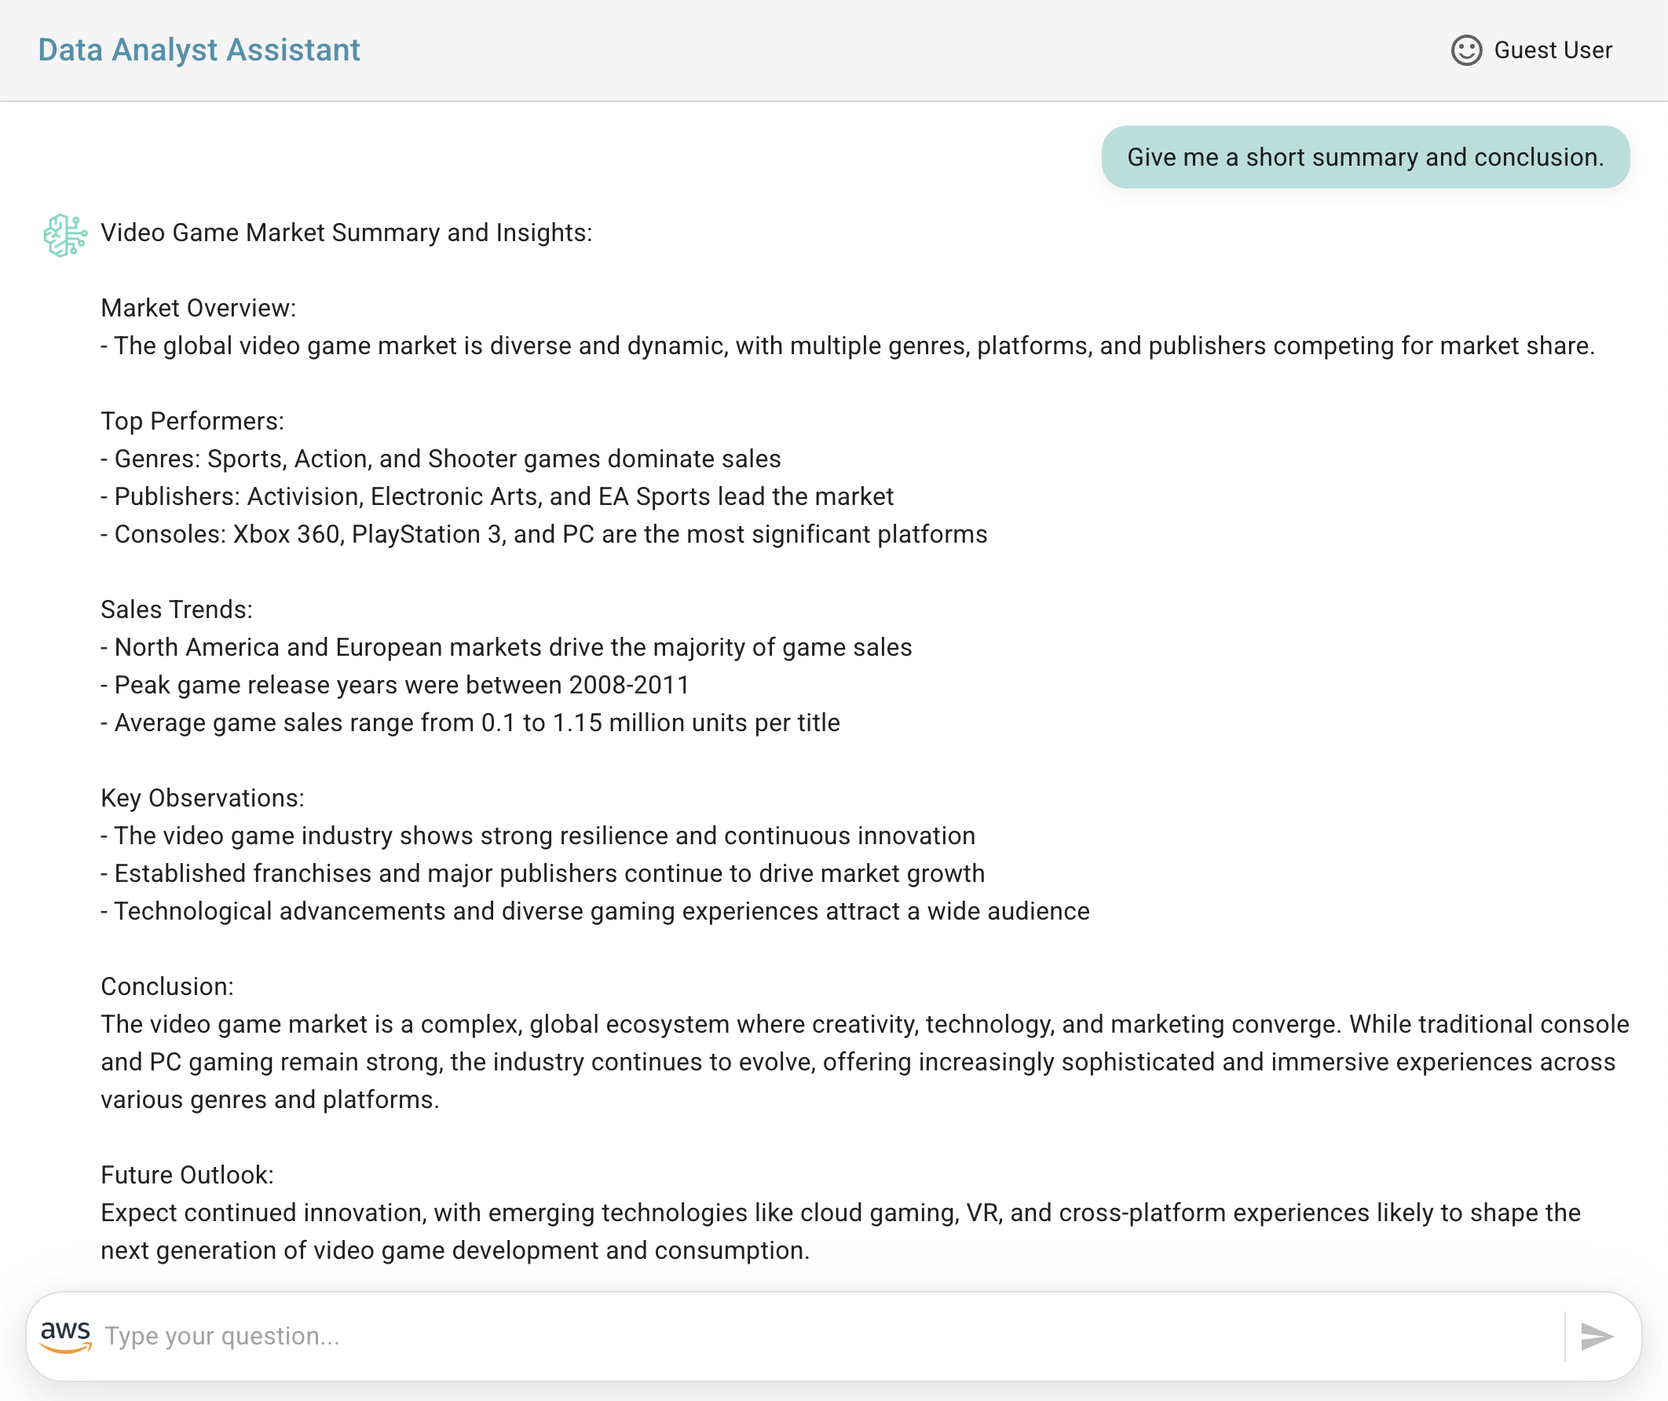
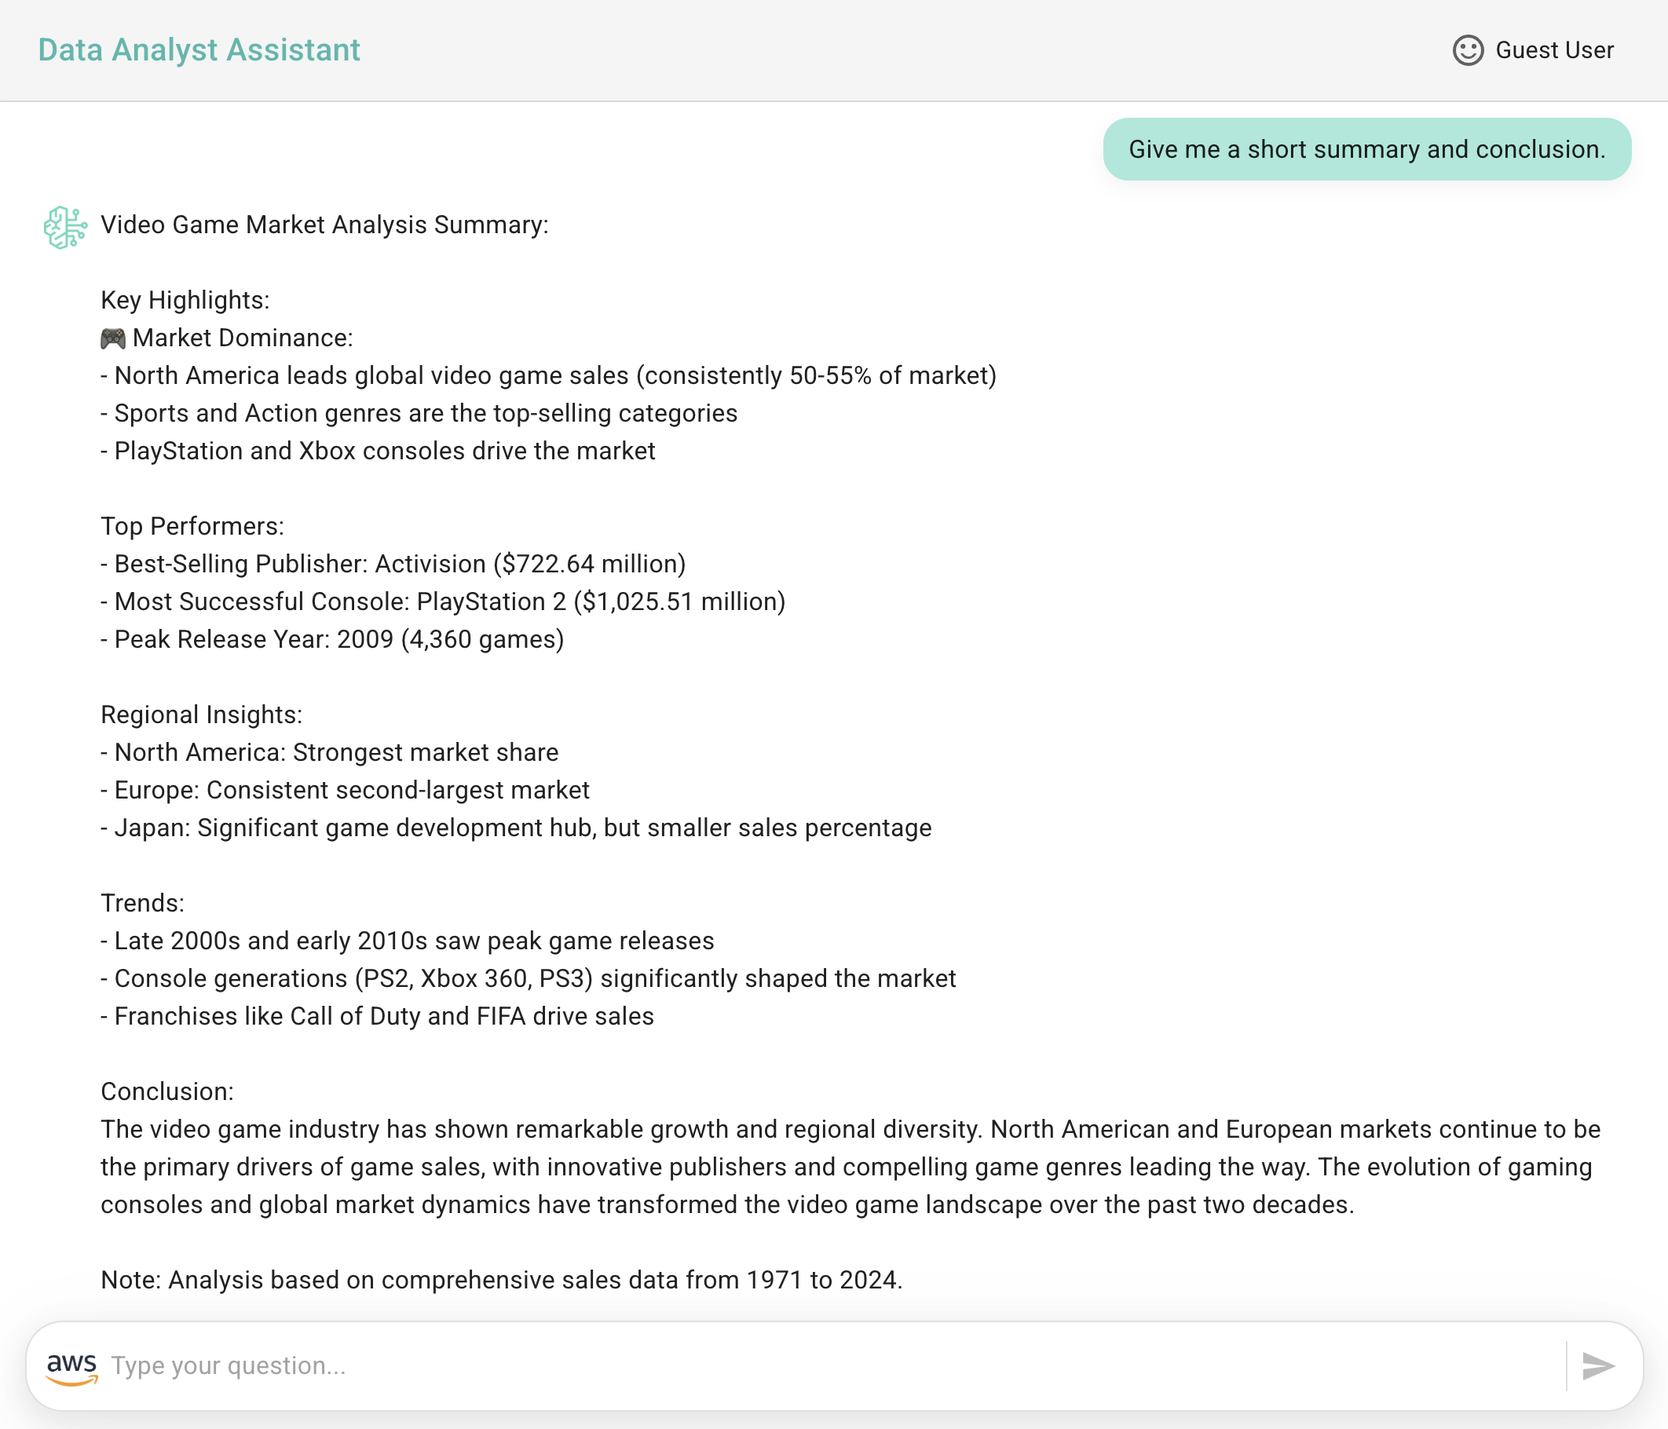
DAS - Answer details and readme updates (#62)
* Readme descriptions and DAS data validations.

* Readme descriptions and DAS data validations.

* Readme descriptions and DAS data validations.

* DAS - Answer details and readme updates

* DAS - Answer details and readme updates

* DAS - Answer details and readme updates

---------

diff --git a/examples/agents_ux/video_games_sales_assistant_with_amazon_bedrock_agents/amplify-video-games-sales-assistant-sample/src/components/Chat.js b/examples/agents_ux/video_games_sales_assistant_with_amazon_bedrock_agents/amplify-video-games-sales-assistant-sample/src/components/Chat.js
@@ -14,11 +14,10 @@ import Grow from '@mui/material/Grow';
 import Stack from '@mui/material/Stack';
 import Fade from '@mui/material/Fade';
 import { v4 as uuidv4 } from 'uuid';
-import { BedrockAgentRuntimeClient, InvokeAgentCommand, BedrockAgentRuntimeClientConfigType } from "@aws-sdk/client-bedrock-agent-runtime";
+import { BedrockAgentRuntimeClient, InvokeAgentCommand } from "@aws-sdk/client-bedrock-agent-runtime";
 import { BedrockRuntimeClient, InvokeModelCommand } from "@aws-sdk/client-bedrock-runtime";
 import { DynamoDBClient } from "@aws-sdk/client-dynamodb";
 import { DynamoDBDocumentClient, QueryCommand } from "@aws-sdk/lib-dynamodb";
-import { fromCognitoIdentityPool } from "@aws-sdk/credential-providers";
 
 import InsightsOutlinedIcon from '@mui/icons-material/InsightsOutlined';
 import QuestionAnswerOutlinedIcon from '@mui/icons-material/QuestionAnswerOutlined';
@@ -488,12 +487,12 @@ const Chat = ({}) => {
 
                                     <Grid container spacing={2} sx={{ display: 'flex', alignItems: 'center' }}>
                                         <Grid>
-                                            <IconButton 
-                                                size="small"
+                                            <Button
+                                                color="secondary"
                                                 onClick={handleClickOpenAnswerDetails(index)}
-                                                >
-                                                    <PsychologyRoundedIcon fontSize="small" />
-                                            </IconButton>
+                                                startIcon={<PsychologyRoundedIcon />}>
+                                                Details
+                                            </Button>
                                         </Grid>
 
                                         { answer.queryResults.length>0 && (
@@ -551,7 +550,7 @@ const Chat = ({}) => {
                                 fontWeight: 500, 
                                 pt: 1, pb:1, pl:2, pr: 2, mb: 1, mt: 2, mr:1,
                                 boxShadow: 'rgba(0, 0, 0, 0.05) 0px 4px 12px',
-                                background: "#B2DFDB"
+                                background: "#A4E9DB"
                                 }}>
                                 <Typography variant="body1">
                                     { answer.query }
@@ -570,7 +569,7 @@ const Chat = ({}) => {
                         <Box sx={{ 
                             pt:1, pb:1, pl:2, pr: 2, m:0, borderRadius: 4, display: "flex",
                             boxShadow: 'rgba(0, 0, 0, 0.05) 0px 4px 12px',
-                            background: "#B2DFDB"
+                            background: "#A4E9DB"
                             }}
                         >
                             <Typography variant="body1">Answering your question...</Typography>
@@ -606,7 +605,7 @@ const Chat = ({}) => {
                 borderRadius: 6
             })}
             >
-            <Box sx={{ pt:1 }}>
+            <Box sx={{ pt:1.5, pl:0.5 }}>
                 <img src="/images/AWS_logo_RGB.png" alt="Amazon Web Services" height={20} />
             </Box>
             <InputBase

diff --git a/examples/agents_ux/video_games_sales_assistant_with_amazon_bedrock_agents/amplify-video-games-sales-assistant-sample/src/components/AnswerDetailsDialog.js b/examples/agents_ux/video_games_sales_assistant_with_amazon_bedrock_agents/amplify-video-games-sales-assistant-sample/src/components/AnswerDetailsDialog.js
@@ -55,7 +55,7 @@ function AnswerDetailsDialog(props) {
                     </Grid>
                     <Grid sm={12} md={6} lg={6} >
                         <Box sx={{ borderRadius: 4, pl:2, pr:2, pt:2,
-                            background: "#B2DFDB"
+                            background: "#A4E9DB"
                             }} >
                             <Box>
                                 {runningTraces.map((row,index) => (

diff --git a/examples/agents_ux/video_games_sales_assistant_with_amazon_bedrock_agents/amplify-video-games-sales-assistant-sample/src/components/LayoutApp.js b/examples/agents_ux/video_games_sales_assistant_with_amazon_bedrock_agents/amplify-video-games-sales-assistant-sample/src/components/LayoutApp.js
@@ -41,8 +41,11 @@ function LayoutApp() {
   const defaultTheme = createTheme({
     palette: {
       primary: {
-        main: "#4091AD"
+        main: "#44B8AC"
       },
+      secondary: {
+        main: "#006f66"
+      }
     }
   });
 

diff --git a/examples/agents_ux/video_games_sales_assistant_with_amazon_bedrock_agents/amplify-video-games-sales-assistant-sample/README.md b/examples/agents_ux/video_games_sales_assistant_with_amazon_bedrock_agents/amplify-video-games-sales-assistant-sample/README.md
@@ -13,18 +13,16 @@ By the end of this tutorial, you'll have a fully functional Generative AI web ap
 
 - An **Alias** created from your **Amazon Bedrock Agent** that you created in the first tutorial.
 - [Node.js > 18 version required](https://nodejs.org/en/download/package-manager)
+- React Scripts installed by executing the following command:
+``` bash
+npm install react-scripts
+```
 
 **Before proceeding further, verify that you have successfully installed and configured all the listed prerequisites in your development environment.**
 
-## Amplify Deployment
+## Prepare your Front-End Application
 
-Use the following instructions for deploying the React front-end application with Amplify.
-
-[Install the Amplify CLI](https://docs.amplify.aws/gen1/react/tools/cli/start/set-up-cli/) with the following command:
-
-``` bash
-npm install -g @aws-amplify/cli 
-```
+Set up dependencies, configure permissions, and prepare environment variables for your React application to interact with Amazon Bedrock and Amazon DynamoDB.
 
 ### Install React Application Dependencies
 
@@ -34,20 +32,9 @@ Command to install required npm packages for React.
 npm install
 ```
 
-### Initialize the Amplify Application using **Gen1**
+### Create an IAM User Access Keys for your Front-End Application Permissions
 
-Run amplify init to set up the Amplify project.
-
-``` bash
-amplify init
-```
-
-- To initialize the project use the **suggested configuration**.
-- Select your authentication method.
-
-### Create an IAM User Access Keys for your Front-end Application Permissions
-
-[Create an IAM user](https://docs.aws.amazon.com/IAM/latest/UserGuide/id_users_create.html) and [create Access key and Secret access key](https://docs.aws.amazon.com/keyspaces/latest/devguide/create.keypair.html) for programmatic access to your front-end application.
+**[Create an IAM user](https://docs.aws.amazon.com/IAM/latest/UserGuide/id_users_create.html) and [create Access key and Secret access key](https://docs.aws.amazon.com/keyspaces/latest/devguide/create.keypair.html) for programmatic access to your front-end application**, you will use these credentials in **env.js** file.
 
 In the **Permissions policies** section of you user, click **Add permissions** and then click **Create inline policy** to add the following inline policy using the **JSON Policy editor**, update the values with your **<agent_arn>**, **<agent_id>**, **<account_id>** and **<question_answers_table_arn>** that you can find in the outputs from the SAM tutorial.
 
@@ -91,11 +78,11 @@ In the **Permissions policies** section of you user, click **Add permissions** a
 }
 ```
 
-### Configure the Environment Variables for the Front-end Application
+### Configure the Environment Variables for the Front-End Application
 
 Rename the file **src/sample.env.js** to **src/env.js** and update the values of the following variables.
 
-AWS credentials and AWS region used for your deployment:
+AWS credentials of the IAM user that you created previously and the AWS Region that you are using for the deployment:
 - **ACCESS_KEY_ID**
 - **SECRET_ACCESS_KEY**
 - **AWS_REGION**
@@ -111,27 +98,16 @@ Also, you can update the general application description:
 - **APP_SUBJECT**
 - **WELCOME_MESSAGE**
 
-### Add Hosting and Testing
 
-Run the following command to add hosting to your Amplify project:
+### Testing your Data Analyst Assistant
 
-``` bash
-amplify add hosting
-```
-
-Use the following configuration:
-- Select the plugin module to execute · **Hosting with Amplify Console (Managed hosting with custom domains, Continuous deployment)**
-- Choose a type **Manual deployment**
+Now you can test your front-end application locally. Execute the following command:
 
 ``` bash
-amplify publish
+npm start
 ```
 
-Copy the provided URL to access your application.
-
-### Testing your Data Analyst Assistant Generative AI Application
-
-Sample questions to test the Data Analyst Assistant AI application:
+You can use the following sample questions to test the Data Analyst Assistant:
 
 - Hello
 - How can you help me?
@@ -145,6 +121,71 @@ Sample questions to test the Data Analyst Assistant AI application:
 - Which is the year with the highest number of games released?
 - Which are the most popular consoles and why?
 - Give me a short summary and conclusion.
+
+## Using Amplify for Hosting your Front-End Application
+
+Execute the following commands for hosting the React front-end application in Amplify.
+
+[Install the Amplify CLI](https://docs.amplify.aws/gen1/react/tools/cli/start/set-up-cli/) with the following command:
+
+``` bash
+npm install -g @aws-amplify/cli
+```
+
+### Initialize the Amplify Application using **Gen1**
+
+Set up the Amplify project by executing the following command:
+
+``` bash
+amplify init
+```
+
+- To initialize the project use the **suggested configuration**.
+- Select your authentication method.
+
+### Add Hosting and Testing
+
+Execute the following commands to add hosting to your Amplify project:
+
+
+``` bash
+amplify add hosting
+```
+
+Use the following configuration:
+- Select the plugin module to execute · **Hosting with Amplify Console (Managed hosting with custom domains, Continuous deployment)**
+- Choose a type **Manual deployment**
+
+``` bash
+amplify publish
+```
+
+After the publishing finishes, you can copy the provided **URL** to access your front-end application.
+
+## Front-End Application Preview Images
+
+Congratulations, now you have your Data Analyst Assistant where you can interact and have the following:
+
+- **Conversational interface with agent responding to user's questions.**
+
+![Video Games Sales Assistant](../images/preview1.png)
+
+- **Answer details including the rationale for generating the SQL query.**
+
+![Video Games Sales Assistant](../images/preview2.png)
+
+- **Raw query results displayed in tabular format from the SQL query.**
+
+![Video Games Sales Assistant](../images/preview3.png)
+
+- **Time-series chart visualization generated based on the provided data (charts created using [Apexcharts](https://apexcharts.com/))**.
+
+![Video Games Sales Assistant](../images/preview4.png)
+
+- **Summary and conclusion derived from the data analysis conversation.**
+
+![Video Games Sales Assistant](../images/preview5.png)
+
 
 ## Cleaning-up Resources (optional)
 

diff --git a/examples/agents_ux/video_games_sales_assistant_with_amazon_bedrock_agents/sam-bedrock-video-games-sales-assistant/README.md b/examples/agents_ux/video_games_sales_assistant_with_amazon_bedrock_agents/sam-bedrock-video-games-sales-assistant/README.md
@@ -18,15 +18,18 @@ By the end of this tutorial, you'll have the Amazon Bedrock Agent working in the
 
 **Before proceeding further, verify that you have successfully installed and configured all the listed prerequisites in your development environment.**
 
-## SAM Deployment
+## Database and Back-End Deployment with SAM
 
-Under this SAM project folder execute the following commands to deploy the backend services for the Assistant:
+To deploy the backend services for the Assistant, execute the following commands in your SAM project folder:
 
 ```bash
 sam build
 ```
 
-Note: By default, the Python version used for the Lambda Function is 3.9. If you receive a **Build Failed** error, change to the Python version (>3.9) that you have in **template.yaml** file in line **56**.
+> [!NOTE]
+> If you receive a **Build Failed error**, then you might need to change the Python version in the **template.yaml** file. By default, the Lambda Function uses Python 3.9. You can modify this setting on **line 56** of the **template.yaml** file to use a Python version that is higher than 3.9 that you have installed.
+
+Now execute the following command to perform a first SAM deployment:
 
 ```bash
 sam deploy --guided
@@ -46,12 +49,22 @@ Use the following value arguments for the deployment configuration:
 - SAM configuration file : **samconfig.toml**
 - SAM configuration environment : **default**
 
-After uploading the SAM project and changeset created:
+After the SAM project preparation and changeset created, confirm the following to start the deployment:
 
 - Deploy this changeset? [y/N]: **Y**
 
+After the SAM deployment finishes, you will have the following main services created:
+- The Lambda Function API that the agent will use.
+- The Aurora Serverless PostgreSQL Cluster Database.
+- A DynamoDB Table for tracking questions and query details.
+
 > [!TIP]
-> Alternatively, you can choose to follow [this manual](./manual_database_data_load_and_agent_creation.md) to continue creating the Amazon Bedrock Agent step-by-step in the AWS Console. Otherwise, continue with the instructions below.
+> Alternatively, you can choose to follow [this manual](./manual_database_data_load_and_agent_creation.md) to continue creating the Amazon Bedrock Agent step-by-step in the AWS Console. **Otherwise, continue with the instructions below**.
+
+
+## Preparing the Database and Creating the Amazon Bedrock Agent
+
+To create the agent with the provided scripts, run the following commands to prepare the environment variables that you will need:
 
 ``` bash
 # Set the stack name environment variable
@@ -80,9 +93,9 @@ EOF
 
 ```
 
-## Loading Data Sample to the PostgreSQL Databae
+### Loading Data Sample to the PostgreSQL Databae
 
-Execute the following command to create the database and load the data source.
+Execute the following command to create the database and load the data source:
 
 ``` bash
 pip install boto3
@@ -94,7 +107,7 @@ The script executed uses the **[video_games_sales_no_headers.csv](./resources/da
 > [!NOTE]
 > The data source provided contains information from [Video Game Sales](https://www.kaggle.com/datasets/asaniczka/video-game-sales-2024) which is made available under the [ODC Attribution License](https://opendatacommons.org/licenses/odbl/1-0/).
 
-## Amazon Bedrock Agent Creation
+### Amazon Bedrock Agent Creation
 
 Execute the following command to create the Amazon Bedrock Agent. This step will take about 30 seconds.
 
@@ -110,9 +123,9 @@ The Amazon Bedrock Agent was created and configured with the following informati
 > [!IMPORTANT] 
 > Enhance AI safety and compliance by implementing [Amazon Bedrock Guardrails](https://aws.amazon.com/bedrock/guardrails/) for your AI applications.
 
-## Testing the Agent
+### Testing the Agent in the AWS Console
 
-Now you can go back to your Amazon Bedrock Agen called **video-games-sales-assistant**, click on **Edit Agent Builder**, in the **Agent builder** section click on **Save**, **Prepare** and **Test**, use the **Test Agent** with the following sample questions:
+Now you can go back to your Amazon Bedrock Agent called **video-games-sales-assistant**, click on **Edit Agent Builder**, in the **Agent builder** section click on **Save**, **Prepare** and **Test**, use the **Test Agent** with the following sample questions:
 
 - Hello
 - How can you help me?
@@ -127,9 +140,11 @@ Now you can go back to your Amazon Bedrock Agen called **video-games-sales-assis
 - Which are the most popular consoles and why?
 - Give me a short summary and conclusion.
 
-## Create Alias Agent Application
+## Create Alias Agent for the Front-End Application
 
-To use the Agent application, once you have a **Prepared** version for testing, go to your **Agent overview** and click on **Create Alias** to use it from your front-end application.
+To use the agent in the front-end application, you need to **create an Alias of your agent**. After you have prepared a version for testing purposes, go to your **Agent Overview** and click on **Create Alias** so that you can use the alias point.
+
+You can now follow the tutorial [Getting Started with Amplify Video Games Sales Assistant](../amplify-video-games-sales-assistant-sample/) to deploy the front-end application. The tutorial will ask you for your your alias along with the other services that you have created so far.
 
 ## Cleaning-up Resources (optional)
 

diff --git a/examples/agents_ux/video_games_sales_assistant_with_amazon_bedrock_agents/README.md b/examples/agents_ux/video_games_sales_assistant_with_amazon_bedrock_agents/README.md
@@ -20,8 +20,8 @@ The assistant generates appropriate SQL queries to retrieve the requested data, 
 
 To deploy the application, please follow these two steps:
 
-1. [Getting Started with SAM Video Games Sales Assistant and Amazon Bedrock Agents](./sam-bedrock-video-games-sales-assistant/)
-2. [Getting Started with Amplify Video Games Sales Assistant](./amplify-video-games-sales-assistant-sample/)
+1. **Generative AI Application and Data Source**: [Getting Started with SAM Video Games Sales Assistant and Amazon Bedrock Agents](./sam-bedrock-video-games-sales-assistant/)
+2. **Front-End Application**: [Getting Started with Amplify Video Games Sales Assistant](./amplify-video-games-sales-assistant-sample/)
 
 > [!NOTE]
 > *It is recommended to use the Oregon (us-west-2) or N. Virginia (us-east-1) regions to deploy the application.*
@@ -37,23 +37,23 @@ To deploy the application, please follow these two steps:
 
 The following images are part of a conversation analysis that includes the natural language answer, the rationale used by the LLM to generate the SQL query, the records resulting from the SQL query used to answer the question, and chart generation.
 
-**Conversational interface with agent responding to user's questions.**
+- **Conversational interface with agent responding to user's questions.**
 
 ![Video Games Sales Assistant](./images/preview1.png)
 
-**Answer details including the rationale for generating the SQL query.**
+- **Answer details including the rationale for generating the SQL query.**
 
 ![Video Games Sales Assistant](./images/preview2.png)
 
-**Raw query results displayed in tabular format from the SQL query.**
+- **Raw query results displayed in tabular format from the SQL query.**
 
 ![Video Games Sales Assistant](./images/preview3.png)
 
-**Time-series chart visualization generated based on the provided data (charts created using [Apexcharts](https://apexcharts.com/))**.
+- **Time-series chart visualization generated based on the provided data (charts created using [Apexcharts](https://apexcharts.com/))**.
 
 ![Video Games Sales Assistant](./images/preview4.png)
 
-**Summary and conclusion derived from the data analysis conversation.**
+- **Summary and conclusion derived from the data analysis conversation.**
 
 ![Video Games Sales Assistant](./images/preview5.png)
 
